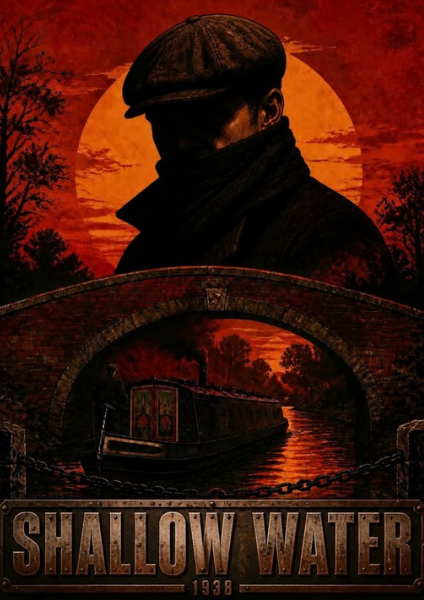
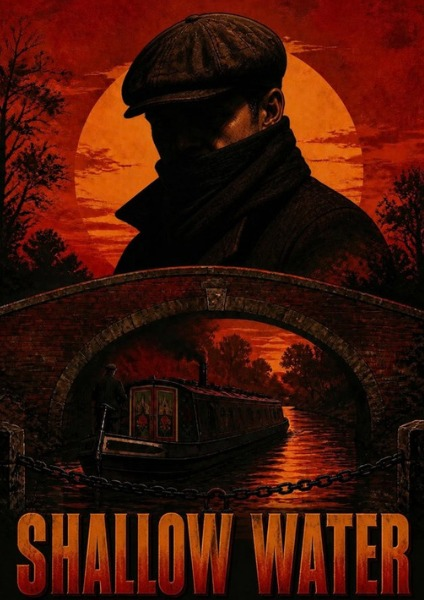
Dress the title screen in James's sunset poster: the poster as the key art and the wash behind it, and the name and the chosen line in its orange
Claude-Session: https://claude.ai/code/session_017emZYHg4jwFu8dLangQeF8

diff --git a/docs/unity.md b/docs/unity.md
@@ -2,7 +2,7 @@
 
 1. Clone the repository and open the folder in Unity Hub with Unity 6 LTS (any 6000.0 release; accept the version prompt).
 2. Open any scene, or make a new empty one. Press Play.
-3. The title screen comes up first: the cover art, *Shallow Water: Locked*, and four choices. **New game** starts the demo from the beginning. **Continue** picks up the most recent saved game, and **Load** lists every saved game, newest first, to choose from (Escape or Back returns to the menu). **Quit** closes the game, except on the web. Continue and Load are greyed out until something has been saved. The game saves itself every minute of play, when the window loses focus and when it closes, into one autosave; F5 saves a game of its own, and the last eight of those are kept. A save holds where *Sparrow* lies and her heading, and the time of day; it is a JSON file in `Saves` under Unity's persistent data folder. The title screen is in `Assets/Unity/Title`, its look in `Assets/Unity/Resources/Hud/Title.uss`, and the cover is `Assets/Unity/Resources/Hud/Art/Cover.png`, a copy of `docs/art/cover.png`: replace that file to change the art.
+3. The title screen comes up first: the cover art, *Shallow Water: Locked*, and four choices. **New game** starts the demo from the beginning. **Continue** picks up the most recent saved game, and **Load** lists every saved game, newest first, to choose from (Escape or Back returns to the menu). **Quit** closes the game, except on the web. Continue and Load are greyed out until something has been saved. The game saves itself every minute of play, when the window loses focus and when it closes, into one autosave; F5 saves a game of its own, and the last eight of those are kept. A save holds where *Sparrow* lies and her heading, and the time of day; it is a JSON file in `Saves` under Unity's persistent data folder. The title screen is in `Assets/Unity/Title`, its look in `Assets/Unity/Resources/Hud/Title.uss`, and the cover is `Assets/Unity/Resources/Hud/Art/Cover.png`, a copy of the poster in `docs/art/poster.png`: replace that file to change the art.
 4. On a new game you are on *Sparrow*, moored at Hopwas bridge on the real canal, pointing south towards Fazeley, at half past eight on an October morning: low sun, soft shadows, haze on the distance and a sky of drifting cloud. The day runs on, a game minute to each second, so a whole day passes in 24 minutes: the sun climbs to 28 degrees at noon, sets about a quarter past five, and twilight gives way to a night lit by the moon under the stars until it rises again about a quarter to seven. The time is in the top right corner. In the bottom left the radar shows the 1900 map round you, turned so that ahead of the camera is up, with you as the arrow and north marked on its rim. W or up is ahead, S or down is astern, A and D or the arrows are the rudder. The boat only answers the helm once it has steerage way. M lays the 1900 one-inch map on the ground in place of the fields, and M again takes it up; the traced canal, roads, hedges and houses stand on it either way.
 5. Ahead carries you round the canal's own bends: the helm steers you across the water, and the canal carries you along it, past Whittington, through Hopwas, round Fazeley Junction and over the Tame into Tamworth. The stop-planks at Huddlesford and the closed bottom gates of Glascote locks hold you with your bow against them, and a chain closes the Birmingham and Fazeley where it leaves Fazeley Junction. That is the pound, 13.1 kilometres of level water, and the whole of the demo.
 6. The canal's sides change as you go. Most of the way the banks are grass and the towpath, on your left heading south, is a dirt path between grass verges. Through Hopwas, and from above Fazeley Junction all the way into Tamworth, it is paved behind a stone edge. Seven mooring spots have a hard edge and bollards to tie up to: below Huddlesford Junction, by Whittington, under Hopwas Hays Wood, either side of Hopwas bridge, above Fazeley Junction, and below Glascote locks. They are listed by name, as distances from those landmarks, in `Assets/Game/Pound/PoundStretches.cs`.
